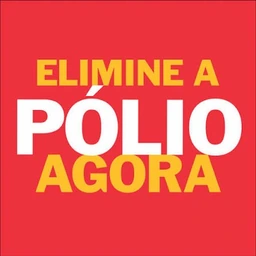
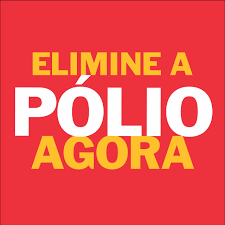
Elimine a Polio a partir do PNG limpo: WebP sem perda, 5,2 KB

diff --git a/index.html b/index.html
@@ -34,7 +34,7 @@
 <link rel="preconnect" href="https://fonts.gstatic.com" crossorigin>
 <link href="https://fonts.googleapis.com/css2?family=Open+Sans:ital,wght@0,400;0,600;0,700;0,800;1,400;1,800&display=swap" rel="stylesheet" media="print" onload="this.media='all'">
 <noscript><link href="https://fonts.googleapis.com/css2?family=Open+Sans:ital,wght@0,400;0,600;0,700;0,800;1,400;1,800&display=swap" rel="stylesheet"></noscript>
-<link rel="stylesheet" href="assets/css/style.css?v=1.9.37">
+<link rel="stylesheet" href="assets/css/style.css?v=1.9.38">
 
 <!-- Dados estruturados (Schema.org) para o Google -->
 <script type="application/ld+json">
@@ -223,7 +223,7 @@
 <section id="polio" class="polio-section">
   <div class="container">
     <div class="polio-inner reveal">
-      <img class="polio-badge" src="assets/img/polio/elimine-polio-agora.webp" alt="Elimine a Pólio Agora" loading="lazy" width="256" height="256">
+      <img class="polio-badge" src="assets/img/polio/elimine-polio-agora.webp" alt="Elimine a Pólio Agora" loading="lazy" width="225" height="225">
       <span class="eyebrow" data-i18n="polio.eyebrow">Fundação Rotária · Saúde global</span>
       <h2 class="section-title" data-i18n="polio.title">Elimine a Pólio Agora</h2>
       <p class="section-lede" data-i18n="polio.lede">Desde 1985 o Rotary lidera a maior campanha de vacinação voluntária da história. Estamos a um passo de tornar a pólio a segunda doença humana já erradicada do planeta — mas só chegamos lá com a ajuda de todos.</p>
@@ -606,6 +606,6 @@
   })();
 </script>
 
-<script src="assets/js/main.js?v=1.9.37"></script>
+<script src="assets/js/main.js?v=1.9.38"></script>
 </body>
 </html>
